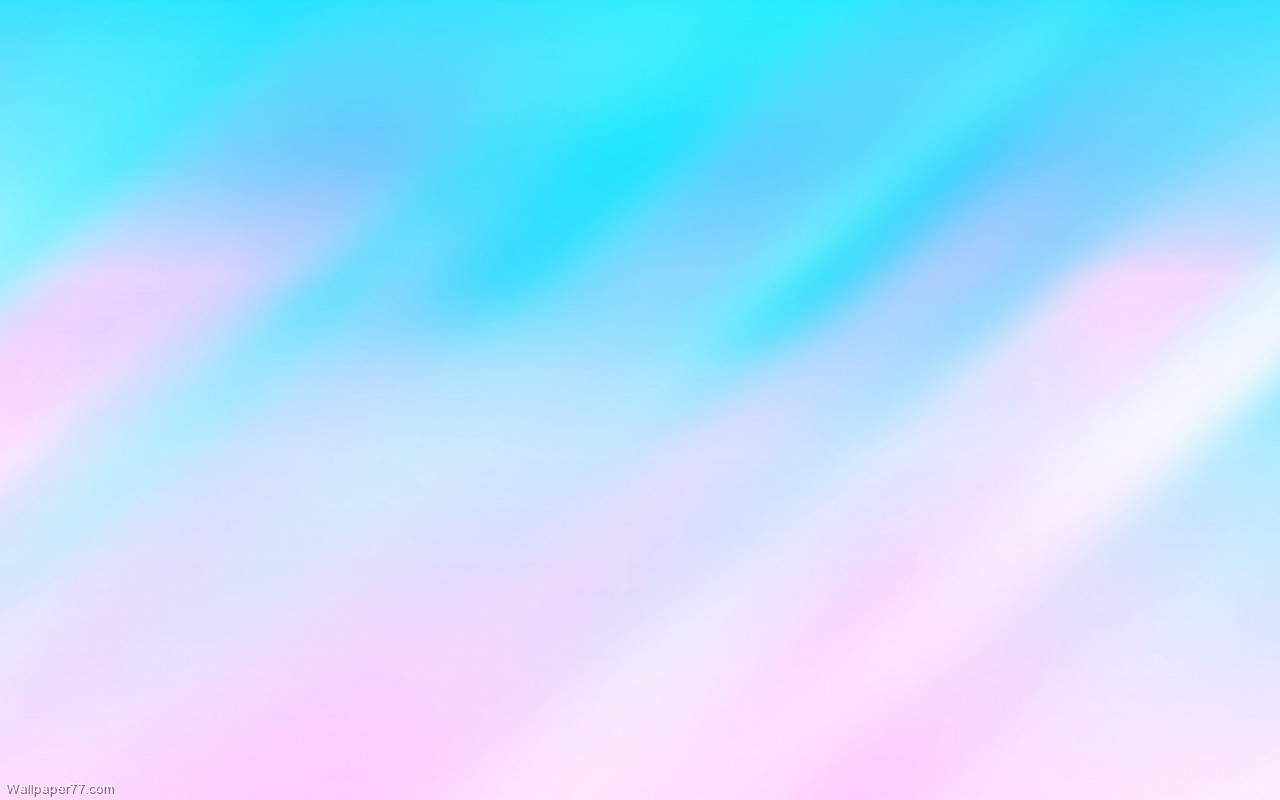
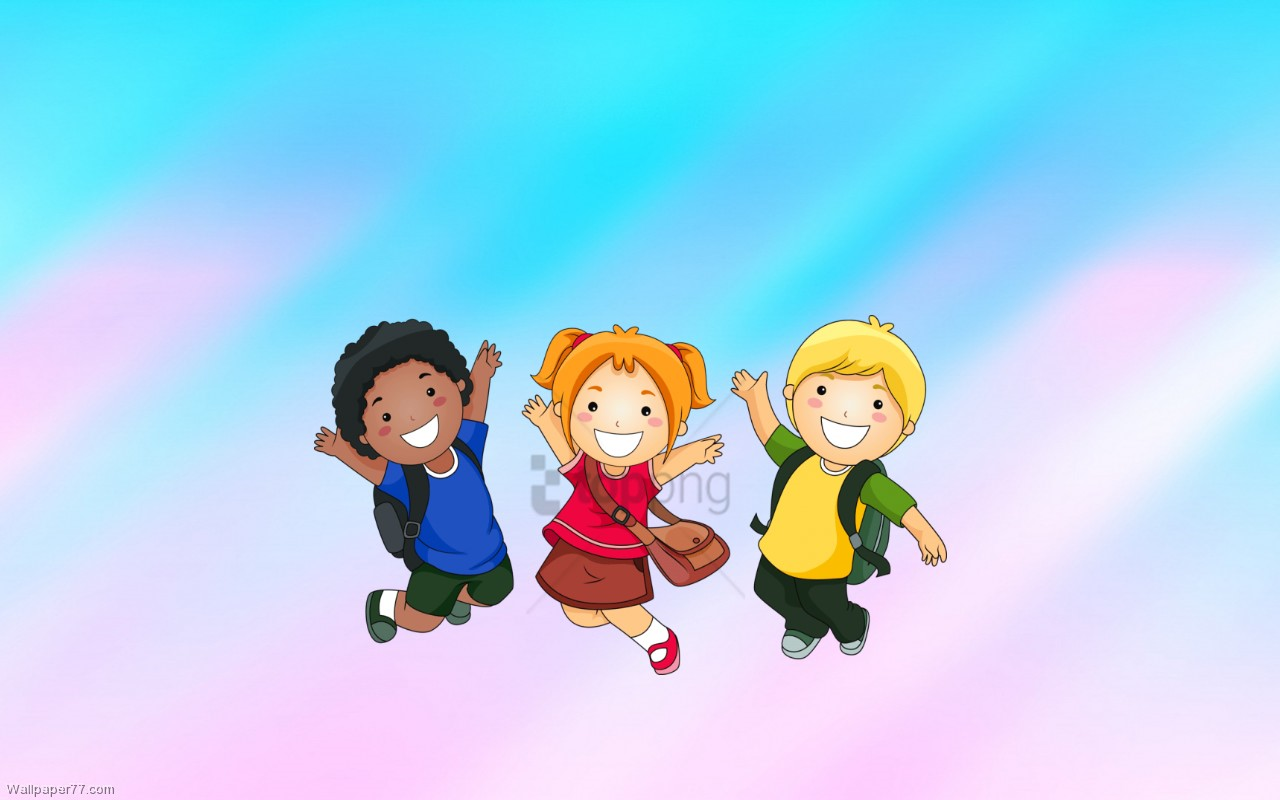
modified ny new page

Changed region(s): [[0.25, 0.375, 0.75, 0.8438]]

diff --git a/pages/imageslider.html b/pages/imageslider.html
@@ -13,7 +13,7 @@
             padding: 0;
             box-sizing: border-box;
             font-family: 'Fuzzy Bubbles', cursive;
-            /* background-image: linear-gradient(#c2e59c, #64b3f4); */
+           
             
         }
         body{
@@ -21,7 +21,10 @@
             display: flex;
             justify-content: center;
             align-items: center;
-            background-color: violet;
+            background-image: url(./../assets/img/f47fd758fd7555153338a23ba6b42e33.jpg);
+            background-size: 100% 100%;
+            background-repeat: no-repeat;
+            background-attachment: fixed;
         }
         .slider{
             position: relative;
@@ -29,9 +32,9 @@
             width: 1500px;
             min-height: 700px;
             margin: 20px;
-            margin-top: 450px;
+            margin-top: 750px;
             overflow: hidden;
-            border-radius: 10px;
+            border-radius: 20px;
         }
         .slide{
             position: absolute;
@@ -48,25 +51,26 @@
             width: 100%;
             height: 100%;
             object-fit: cover;
+            
         }
         .info{
             position: absolute;
             color: #222;
             background: rgba(255, 255, 255, 0.3);
             width: 75%;
-            margin-top: 50px;
-            margin-left: 50px;
+            margin-top: 70px;
+            margin-left: 185px;
             padding: 20px;
             border-radius: 5px;
             box-shadow: 0 5px 25px rgb(1 1 1/5%);
 
         }
         h2{
-            font-size: 2em;
+            font-size: 3em;
             font-weight: 800;
         }
         p{
-            font-size: 1em;
+            font-size: 1.5em;
             font-weight: 400;
              
         }
@@ -78,6 +82,10 @@
             opacity: 0;
             transition: opacity 0.5s ease;
 
+        }
+        i{
+            margin-top: 430px;
+        
         }
         .slider:hover .navigation{
             opacity: 1;
@@ -103,6 +111,8 @@
             z-index: 999;
             display: flex;
             justify-content: center;
+            margin-top: 340px;
+
         }
         .navigation-visibility .slide-icon{
             z-index: 999;
@@ -288,7 +298,7 @@
         #footer {
             background-color: white;
             position: absolute;
-            top: 1200px;
+            top: 1500px;
             left: 3px;
             height: 200px;
             width: 1900px;
@@ -332,8 +342,8 @@
         #cr {
             position: absolute;
             /* border-radius: 30px; */
-            top: 120px;
-            left: 650px;
+            top: 100px;
+            left: 660px;
             height: 20px;
         }
         #cr1 {
@@ -352,6 +362,7 @@
             font-size: 20px;
 
         }
+        
         @media (max-width: 900px){
             .slider{
             width: 100%;
@@ -421,7 +432,17 @@
 
         <div class="slider">
             <div class="slide active">
-                <img src="./../assets/img/nebula wallpaper pastel background Spacekin galaxykin baby ufo.jpg" alt="background">
+                <img src="./../assets/img/Untitled design (5).png" alt="background">
+                <div class="info">
+                    <h2>Hello</h2>
+                    <p>Designed to provide children with reading resources, Kiddy-Kids is a digital gateway to thousands of richly illustrated, open-licensed children's stories in mother tongue languages.</p>
+                    
+                </div>
+                
+
+            </div>
+            <div class="slide">
+                <img src="./../assets/img/5291450.jpg" alt="background">
                 <div class="info">
                     <h2>Hello</h2>
                     <p>Designed to provide children with reading resources, Kiddy-Kids is a digital gateway to thousands of richly illustrated, open-licensed children's stories in mother tongue languages.</p>
@@ -429,15 +450,7 @@
 
             </div>
             <div class="slide">
-                <img src="./../assets/img/Fp2pXBb-pink-cool-backgrounds.jpg" alt="background">
-                <div class="info">
-                    <h2>Hello</h2>
-                    <p>Designed to provide children with reading resources, Kiddy-Kids is a digital gateway to thousands of richly illustrated, open-licensed children's stories in mother tongue languages.</p>
-                </div>
-
-            </div>
-            <div class="slide">
-                <img src="./../assets/img/Pink-And-Blue-Background-PowerPoint-Backgrounds-for-Free-.jpeg" alt="background">
+                <img src="./../assets/img/Untitled design (6).png" alt="background">
                 <div class="info">
                     <h2>Hello</h2>
                     <p>Designed to provide children with reading resources, Kiddy-Kids is a digital gateway to thousands of richly illustrated, open-licensed children's stories in mother tongue languages.</p>

diff --git a/assets/js/sthome.js b/assets/js/sthome.js
@@ -1,14 +1,19 @@
 function displayCategory(value){
     switch(value){
     case "stories":
-        window.location.href = "storyscotent.html"
+    window.location.href = "storyscotent.html";
+    break;
     case "poems":
-    window.location.href = "storyscotent.html"
+    window.location.href = "storyscotent.html";
+    break;
     case "videos":
-    window.location.href = "storyscotent.html"
+    window.location.href = "storyscotent.html";
+    break;
     case "comics":
-    window.location.href = "storyscotent.html"
+    window.location.href = "storyscotent.html";
+    break;
 
 
     }
+
 }

diff --git a/pages/storyhome.html b/pages/storyhome.html
@@ -178,6 +178,7 @@
                     <option value="poems">Poems</option>
                     <option value="videos">Kids-Videos</option>
                     <option value="comics">Comics</option>
+                    
 
                 </select>
                 </button>
